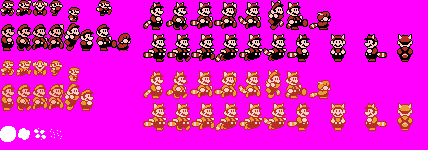
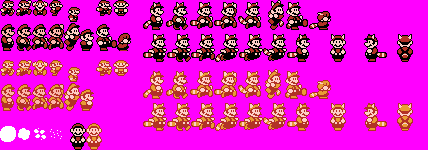
fix bugs

Changed region(s): [[0.1519, 0.8267, 0.243, 1.0], [0.2126, 0.4, 0.3037, 0.5067], [0.243, 0.0, 0.3037, 0.1067]]

diff --git a/Pod/Mario.cpp b/Pod/Mario.cpp
@@ -681,12 +681,31 @@ void Mario::setState(MarioState _state)
 	case DROPPING_DOWN_PIPE:
 	{
 		delete currentAnimation;
-		if (this->getIsFireMode()) {
-			this->currentAnimation = new Animation(AnimationBundle::getInstance()->getSuperMarioFireDroppingDownPipe());
+		if (this->getIsFlyingMode()) {
+			if (this->getIsFireMode()) {
+				this->currentAnimation = new Animation(AnimationBundle::getInstance()->getSuperMarioFlyingFireDroppingDownPipe());
+			}
+			else {
+				this->currentAnimation = new Animation(AnimationBundle::getInstance()->getSuperMarioFlyingDroppingDownPipe());
+			}
+		}
+		else if (this->getIsSuperMode()) {
+			if (this->getIsFireMode()) {
+				this->currentAnimation = new Animation(AnimationBundle::getInstance()->getSuperMarioDroppingDownPipe());
+			}
+			else {
+				this->currentAnimation = new Animation(AnimationBundle::getInstance()->getSuperMarioFireDroppingDownPipe());
+			}
 		}
 		else {
-			this->currentAnimation = new Animation(AnimationBundle::getInstance()->getSuperMarioDroppingDownPipe());
+			if (this->getIsFireMode()) {
+				this->currentAnimation = new Animation(AnimationBundle::getInstance()->getMarioDroppingDownPipe());
+			}
+			else {
+				this->currentAnimation = new Animation(AnimationBundle::getInstance()->getMarioFireDroppingDownPipe());
+			}
 		}
+		
 		this->endDroppingDownPipe = this->getY() + this->getHeight();
 		break;
 	}
@@ -694,11 +713,29 @@ void Mario::setState(MarioState _state)
 	case POPPING_UP_PIPE:
 	{
 		delete currentAnimation;
-		if (this->getIsFireMode()) {
-			this->currentAnimation = new Animation(AnimationBundle::getInstance()->getSuperMarioFireDroppingDownPipe());
+		if (this->getIsFlyingMode()) {
+			if (this->getIsFireMode()) {
+				this->currentAnimation = new Animation(AnimationBundle::getInstance()->getSuperMarioFlyingFireDroppingDownPipe());
+			}
+			else {
+				this->currentAnimation = new Animation(AnimationBundle::getInstance()->getSuperMarioFlyingDroppingDownPipe());
+			}
+		}
+		else if (this->getIsSuperMode()) {
+			if (this->getIsFireMode()) {
+				this->currentAnimation = new Animation(AnimationBundle::getInstance()->getSuperMarioDroppingDownPipe());
+			}
+			else {
+				this->currentAnimation = new Animation(AnimationBundle::getInstance()->getSuperMarioFireDroppingDownPipe());
+			}
 		}
 		else {
-			this->currentAnimation = new Animation(AnimationBundle::getInstance()->getSuperMarioDroppingDownPipe());
+			if (this->getIsFireMode()) {
+				this->currentAnimation = new Animation(AnimationBundle::getInstance()->getMarioDroppingDownPipe());
+			}
+			else {
+				this->currentAnimation = new Animation(AnimationBundle::getInstance()->getMarioFireDroppingDownPipe());
+			}
 		}
 		this->endPoppingUpPipe = this->getY() - this->getBoundsHeight();
 		break;

diff --git a/Pod/AnimationBundle.cpp b/Pod/AnimationBundle.cpp
@@ -549,12 +549,12 @@ Animation AnimationBundle::getGoombaRedThrownAway()
 	return this->animations->at(96);
 }
 
-Animation AnimationBundle::getSuperMarioDroppingDownPipe()
+Animation AnimationBundle::getSuperMarioFlyingDroppingDownPipe()
 {
 	return this->animations->at(101);
 }
 
-Animation AnimationBundle::getSuperMarioFireDroppingDownPipe()
+Animation AnimationBundle::getSuperMarioFlyingFireDroppingDownPipe()
 {
 	return this->animations->at(102);
 }
@@ -582,6 +582,21 @@ Animation AnimationBundle::getOneUp()
 Animation AnimationBundle::getFireBallFromUnderground()
 {
 	return this->animations->at(107);
+}
+
+Animation AnimationBundle::getMarioFireDroppingDownPipe()
+{
+	return this->animations->at(109);
+}
+
+Animation AnimationBundle::getSuperMarioDroppingDownPipe()
+{
+	return this->animations->at(110);
+}
+
+Animation AnimationBundle::getSuperMarioFireDroppingDownPipe()
+{
+	return this->animations->at(111);
 }
 
 Animation AnimationBundle::getSuperMarioFlyingWalking()
@@ -666,4 +681,9 @@ Animation AnimationBundle::get1000Points()
 Animation AnimationBundle::getCoin()
 {
 	return this->animations->at(88);
+}
+
+Animation AnimationBundle::getMarioDroppingDownPipe()
+{
+	return this->animations->at(108);
 }

diff --git a/Pod/Grid.cpp b/Pod/Grid.cpp
@@ -43,7 +43,7 @@ int Grid::getTotalCols()
 void Grid::loadSunnyMap()
 {
 	fstream fs;
-	fs.open(FilePath::getInstance()->grid_sunny_map, ios::in);
+	fs.open(FilePath::getInstance()->original_grid_sunny_map, ios::in);
 
 	SectionFileType section = SECTION_NONE;
 	vector<string> data = vector<string>();
@@ -93,7 +93,7 @@ void Grid::loadSunnyMap()
 void Grid::loadUnderGroundMap()
 {
 	fstream fs;
-	fs.open(FilePath::getInstance()->grid_underground_map, ios::in);
+	fs.open(FilePath::getInstance()->original_grid_underground_map, ios::in);
 
 	SectionFileType section = SECTION_NONE;
 	vector<string> data = vector<string>();
@@ -143,7 +143,7 @@ void Grid::loadUnderGroundMap()
 void Grid::loadThirdMap()
 {
 	fstream fs;
-	fs.open(FilePath::getInstance()->grid_third_map, ios::in);
+	fs.open(FilePath::getInstance()->original_grid_third_map, ios::in);
 
 	SectionFileType section = SECTION_NONE;
 	vector<string> data = vector<string>();

diff --git a/Pod/ViewController.cpp b/Pod/ViewController.cpp
@@ -48,8 +48,8 @@ void ViewController::navigateTo(SceneName _sceneName)
 
 			//this->appController->getSunnyVC()->getMario()->setAnimation(new Animation(AnimationBundle::getInstance()->getMarioStanding()));
 			this->appController->getSunnyVC()->getMario()->setState(MarioState::POPPING_UP_PIPE);
-			//this->appController->getSunnyVC()->getMario()->setFirstFireBallState(FireBallState::FIREBALL_STAYING);
-			//this->appController->getSunnyVC()->getMario()->setFirstFireBallAnimation(new Animation(AnimationBundle::getInstance()->getFireBall()));
+			this->appController->getSunnyVC()->getMario()->setFirstFireBallState(FireBallState::FIREBALL_STAYING);
+			this->appController->getSunnyVC()->getMario()->setFirstFireBallAnimation(new Animation(AnimationBundle::getInstance()->getFireBall()));
 
 
 		}

diff --git a/Pod/AnimationBundle.h b/Pod/AnimationBundle.h
@@ -148,8 +148,8 @@ public:
 	Animation getGoombaRedTrampled();
 	Animation getGoombaRedThrownAway();
 
-	Animation getSuperMarioDroppingDownPipe();
-	Animation getSuperMarioFireDroppingDownPipe();
+	Animation getSuperMarioFlyingDroppingDownPipe();
+	Animation getSuperMarioFlyingFireDroppingDownPipe();
 
 	Animation getCoinFromUnderground();
 	Animation getBlackPipe2FloorDown();
@@ -157,4 +157,9 @@ public:
 	Animation getSuperMushroomGreen();
 	Animation getOneUp();
 	Animation getFireBallFromUnderground();
+
+	Animation getMarioDroppingDownPipe();
+	Animation getMarioFireDroppingDownPipe();
+	Animation getSuperMarioDroppingDownPipe();
+	Animation getSuperMarioFireDroppingDownPipe();
 };

diff --git a/Pod/FilePath.h b/Pod/FilePath.h
@@ -33,9 +33,9 @@ public:
 	string camera_third_map = "./Assets/TextFiles/camera_third_map.txt";
 
 	// Grid
-	string grid_sunny_map = "./Assets/TextFiles/grid_sunny_map.txt";
-	string grid_underground_map = "./Assets/TextFiles/grid_underground_map.txt";
-	string grid_third_map = "./Assets/TextFiles/grid_third_map.txt";
+	string original_grid_sunny_map = "./Assets/TextFiles/original_grid_sunny_map.txt";
+	string original_grid_underground_map = "./Assets/TextFiles/original_grid_underground_map.txt";
+	string original_grid_third_map = "./Assets/TextFiles/original_grid_third_map.txt";
 
 	// Animation Bundle
 	string animation_bundle = "./Assets/TextFiles/animation_bundle.txt";
